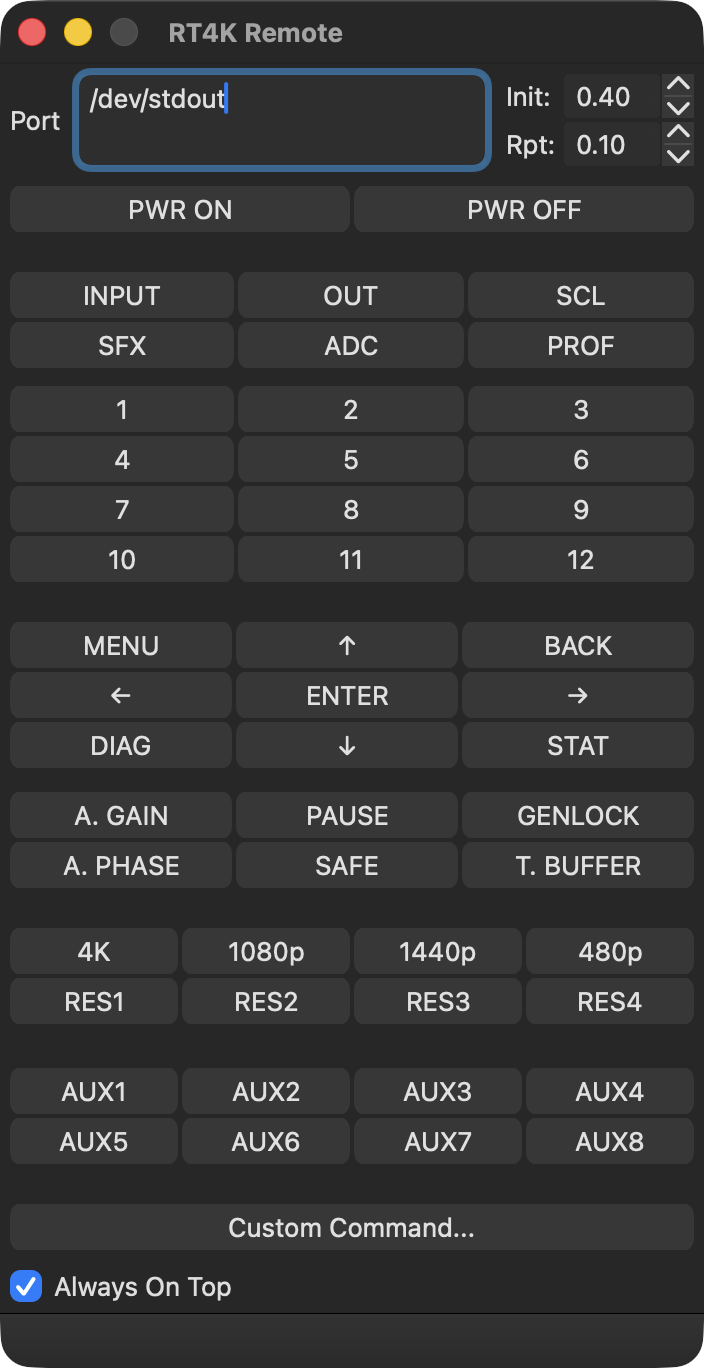
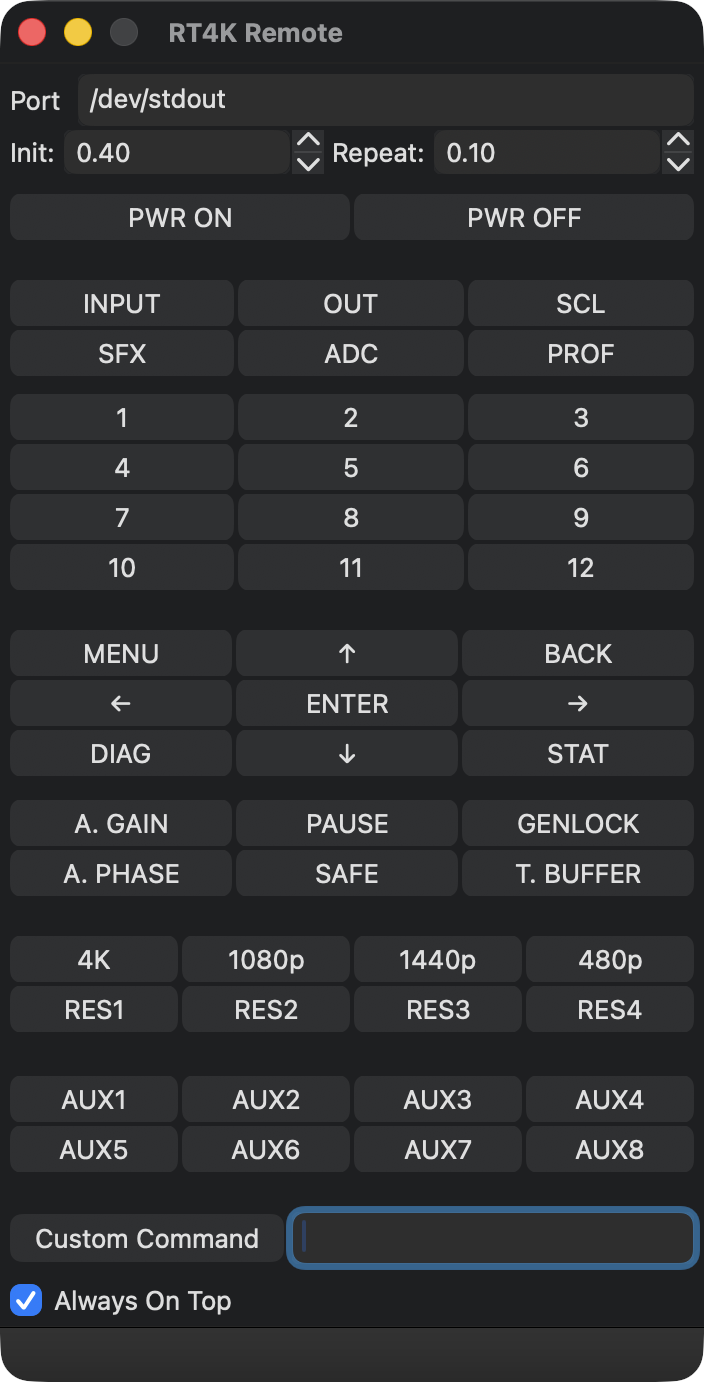
Update documentation, add mac resource forks to .gitignore

diff --git a/README.md b/README.md
@@ -4,6 +4,17 @@
 
 A desktop recreation of the [RetroTINK-4K](https://www.retrotink.com/product-page/retrotink-4k) remote control that issues commands over USB serial, written in wxPython.
 
+## Contents
+
+- [Requirements](#requirements)
+- [Usage](#usage)
+  - [Hold-to-repeat](#hold-to-repeat)
+- [Configuration](#configuration)
+  - [Runtime settings](#runtime-settings)
+  - [Layout overrides](#layout-overrides)
+- [Known Issues](#known-issues)
+- [TODO](#todo)
+
 ## Requirements
 
 - [RetroTINK-4K firmware 1.6.6 or newer](https://retrotink-llc.github.io/firmware/), which adds [USB serial command support](https://consolemods.org/wiki/AV:RetroTINK-4K#USB_Serial_Configuration)
@@ -18,13 +29,13 @@ pip install wxPython pyserial
 
 Connect the RetroTINK-4K to your PC via USB, then enter its serial port in the **Port** field and click any button. The port value is persisted to `config.json` alongside the script.
 
-Buttons cover power, input selection, profile recall, navigation, resolution presets, and AUX slots. A **Custom Command...** button lets you send arbitrary serial commands. **Always On Top** keeps the window above other applications.
+Buttons cover power, input selection, profile recall, navigation, resolution presets, and AUX slots. A **Custom Command** button paired with an inline text field lets you send arbitrary serial commands; it supports hold-to-repeat like any other button, and the last-entered command is saved to `config.json` on exit. **Always On Top** keeps the window above other applications.
 
 ### Hold-to-repeat
 
-Buttons behave like keyboard autorepeat: a single click sends one command. Holding a button sends once immediately, pauses for the **Init** delay (default 0.4 s), then repeats at the **Rpt** interval (default 0.1 s) until released.
+Buttons behave like keyboard autorepeat: a single click sends one command. Holding a button sends once immediately, pauses for the **Init** delay (default 0.4 s), then repeats at the **Repeat** interval (default 0.1 s) until released. Pressing a different button during the initial delay resets it immediately so the new button is handled without waiting out the old delay.
 
-Both values are adjustable via the spinners in the top-right corner of the window and are saved to `config.json` on exit.
+Both values are adjustable via the **Init** and **Repeat** spinners and are saved to `config.json` on exit.
 
 Serial I/O runs on a background thread so the UI stays responsive during holds.
 
@@ -40,8 +51,9 @@ These are written back to `config.json` automatically when the window is closed.
 |-----|---------|-------------|
 | `port` | `""` | Serial port used to communicate with the device (e.g. `"COM3"` or `"/dev/ttyUSB0"`). |
 | `always_on_top` | `false` | Whether the window floats above all other applications. |
+| `custom_command` | `""` | The last command entered in the **Custom Command** text field. |
 | `hold_initial_delay` | `0.4` | Seconds to wait after the first send before repeat begins. Also editable via the **Init** spinner. |
-| `hold_repeat_interval` | `0.1` | Seconds between successive sends during the repeat phase. Also editable via the **Rpt** spinner. |
+| `hold_repeat_interval` | `0.1` | Seconds between successive sends during the repeat phase. Also editable via the **Repeat** spinner. |
 
 ### Layout overrides
 
@@ -52,3 +64,11 @@ These can be set manually in `config.json` to customise the UI geometry. They ar
 | `button_height` | `23` | `16` | Height in pixels of every command button. |
 | `min_window_width` | `200` | `200` | Minimum window width in pixels. The window will be at least as wide as its content requires after auto-fit. |
 | `min_window_height` | `400` | `400` | Minimum window height in pixels. |
+
+## Known Issues
+- macOS: Vertical button sizing doesn't play nice with Aqua. Changing the vertical height configuration for buttons will increase the vertical spacing, but does not change the actual button size.
+  - It may be possible to fix this by using the wx native widgets, but this introduces issues with button release. Unsure if this issue persists in other platforms.
+
+## TODO
+- Rate-limiting so we don't try sending commands faster than 115200bps, which is very unlikely outside of custom commands. (Longest default command is 15 chars plus newline, ascii encoded, sent 8n1 for 10bits/byte sent = 160 bits per command max, limit of about 720 commands per second.)
+- Input sanitization for custom commands. I'm not sure what limitations exist within the RT4K itself.
